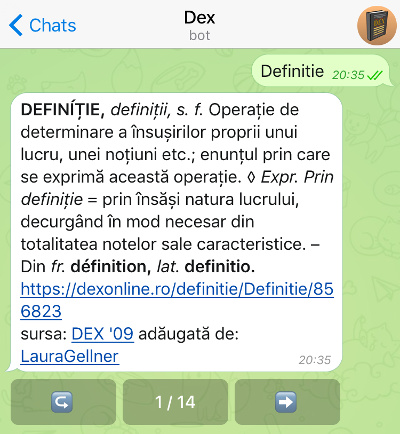
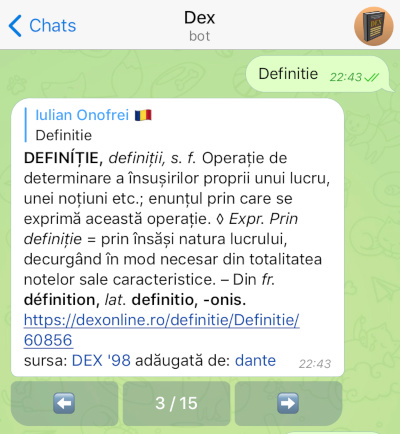
Added bot message as replies to the user's query

Changed region(s): [[0.0, 0.0, 1.0, 1.0]]

diff --git a/src/main.py b/src/main.py
@@ -200,6 +200,8 @@ def inline_query_handler(bot, update):
 
 def message_handler(bot, update):
     message = update.message
+
+    message_id = message.message_id
     query = message.text
     chat_id = message.chat.id
     user = message.from_user
@@ -228,7 +230,8 @@ def message_handler(bot, update):
             chat_id, definition_text,
             reply_markup=reply_markup,
             parse_mode=definition_content.parse_mode,
-            disable_web_page_preview=True
+            disable_web_page_preview=True,
+            reply_to_message_id=message_id
         )
 
 
